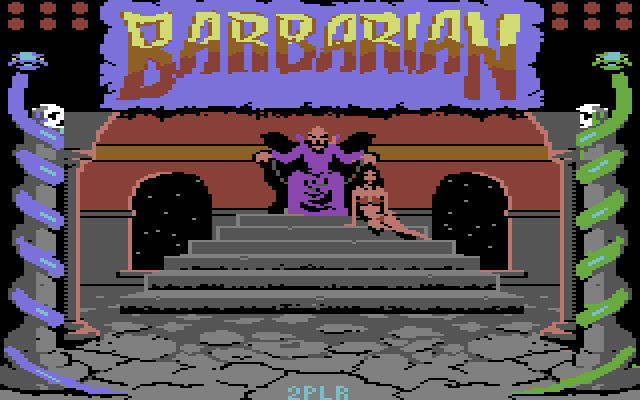
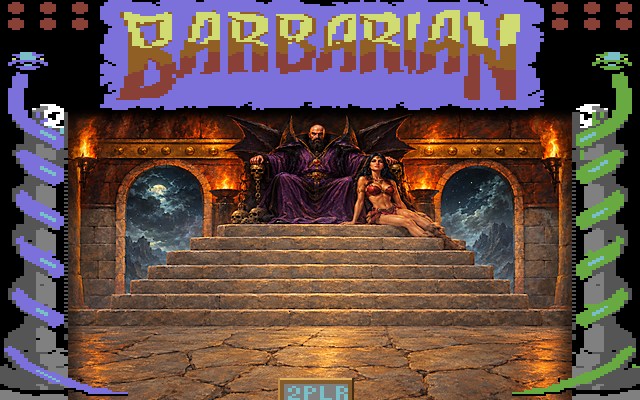
Add painted HD throne room artwork
Generate the throne room and matching background from a fantasy painting while preserving the original HUD, pillars, snakes, and player label. Document how to regenerate both assets.

diff --git a/tools/draw_throne.py b/tools/draw_throne.py
@@ -1,0 +1,117 @@
+"""Builds the throne room artwork at 2x in true colour: assets/HD/stage/throne.png and
+assets/HD/stage/throneBackground.png.
+
+The room is a heroic-fantasy oil painting (tools/throne_painting.jpg: made with an image model from a layout
+reference of the room, in the manner of 1970s sword-and-sorcery cover art). This script maps it onto the game
+grid: the stairs end where the floor starts (game y 163), the shadows behind the fighters are lifted so the dark
+sprites stay readable, and a bronze plate holds the "1PLR" / "2PLR" label. Kept from the C64 picture: the logo
+and HUD area, the two pillars with their snakes (shared by all stages) and the snake tails in the bottom corners.
+
+throneBackground.png is the strip of the picture that the game draws again on every frame (game pixels
+32,96 to 288,176), so it is cut from the new picture. Run from the repository root:
+python tools/draw_throne.py   (needs Pillow and NumPy; the output is deterministic)
+"""
+from pathlib import Path
+
+import numpy as np
+from PIL import Image, ImageFilter
+
+ROOT = Path(__file__).resolve().parent.parent
+SOURCE = ROOT / 'assets/C64/stage/throne.png'
+PAINTING = ROOT / 'tools/throne_painting.jpg'
+PICTURE = ROOT / 'assets/HD/stage/throne.png'
+BACKGROUND = ROOT / 'assets/HD/stage/throneBackground.png'
+
+S = 2                 # pixels per game pixel
+W, H = 320 * S, 200 * S
+
+# The part of the picture that is painted (game pixels); everything else is the C64 picture.
+ROOM = (34, 55, 286, 200)
+ROOM_W, ROOM_H = (ROOM[2] - ROOM[0]) * S, (ROOM[3] - ROOM[1]) * S
+
+STAIRS_BASE = 806     # row of the painting where the stairs end and the floor starts
+FLOOR_START = 163     # game y where the floor starts in the game
+
+
+def smoothstep(x):
+    x = np.clip(x, 0, 1)
+    return x * x * (3 - 2 * x)
+
+
+def paint_room():
+    """The painting at the size of the room, the floor and the stairs placed where the game expects them."""
+    painting = Image.open(PAINTING).convert('RGB')
+    width, height = painting.size
+    floor_row = (FLOOR_START - ROOM[1]) * S
+    stairs = painting.resize((ROOM_W, floor_row), Image.LANCZOS, box=(0, 0, width, STAIRS_BASE))
+    floor = painting.resize((ROOM_W, ROOM_H - floor_row), Image.LANCZOS, box=(0, STAIRS_BASE, width, height))
+    room = Image.new('RGB', (ROOM_W, ROOM_H))
+    room.paste(stairs, (0, 0))
+    room.paste(floor, (0, floor_row))
+    room = room.filter(ImageFilter.UnsharpMask(radius=1.2, percent=70, threshold=2))
+    px = np.asarray(room, np.float32) / 255
+
+    # the throne stays dramatic; behind the fighters the shadows are lifted (gamma < 1)
+    rows = np.arange(ROOM_H, dtype=np.float32)
+    gamma = 1 - 0.40 * smoothstep((rows - 70) / 50) + 0.16 * smoothstep((rows - floor_row) / 18)
+    px = px ** gamma[:, None, None]
+
+    # a shadow under the logo, and a soft edge towards the pillars
+    ceiling = 1 - smoothstep(rows / 14)
+    px *= (1 - 0.92 * ceiling)[:, None, None]
+    cols = np.arange(ROOM_W, dtype=np.float32)
+    edge = np.minimum(cols, ROOM_W - 1 - cols)
+    px *= (0.55 + 0.45 * smoothstep(edge / 18))[None, :, None]
+    return px * 255
+
+
+def nameplate(out):
+    """A bronze plate under the label (an opaque 32x8 picture drawn at 142,192) and the label itself."""
+    x0, y0, x1, y1 = 139 * S, 189 * S, 177 * S, H
+    plate = np.zeros((y1 - y0, x1 - x0, 3), np.float32)
+    plate[:] = (132, 92, 44)
+    plate[:S] = (226, 176, 98)
+    plate[:, :S] = (190, 140, 70)
+    plate[:, -S:] = (64, 42, 18)
+    out[y0:y1, x0:x1] = plate
+
+
+def snake_tails(out, original):
+    """The tails of the pillar snakes curl into the floor in the corners: the C64 pixels, kept."""
+    index = np.asarray(Image.open(SOURCE))
+    core = (index == 14) | (index == 5)
+    window = np.zeros_like(core)
+    window[183:, ROOM[0]:80] = True
+    window[183:, 252:ROOM[2]] = True
+    core &= window
+    grown = core.copy()
+    for dy in (-1, 0, 1):
+        for dx in (-1, 0, 1):
+            grown |= np.roll(np.roll(core, dy, 0), dx, 1)
+    keep = grown & np.isin(index, (0, 3, 14, 5)) & window
+    mask = np.kron(keep, np.ones((S, S), bool))
+    out[mask] = original[mask]
+
+
+def compose():
+    original = np.asarray(Image.open(SOURCE).convert('RGB').resize((W, H), Image.NEAREST), np.float32)
+    out = original.copy()
+    x0, y0, x1, y1 = (v * S for v in ROOM)
+    out[y0:y1, x0:x1] = paint_room()
+    nameplate(out)
+    snake_tails(out, original)
+    # the "2PLR" label is part of the C64 picture: the game draws "1PLR" / "DEMO" over it
+    label = (142 * S, 192 * S, 174 * S, 200 * S)
+    out[label[1]:label[3], label[0]:label[2]] = original[label[1]:label[3], label[0]:label[2]]
+    return np.clip(np.rint(out), 0, 255).astype(np.uint8)
+
+
+def main():
+    picture = compose()
+    Image.fromarray(picture).save(PICTURE, optimize=True)
+    # the strip the game draws on every frame: game pixels 32,96 to 288,176
+    Image.fromarray(picture[96 * S:176 * S, 32 * S:288 * S]).save(BACKGROUND, optimize=True)
+
+
+if __name__ == '__main__':
+    main()

diff --git a/README.md b/README.md
@@ -104,6 +104,13 @@ is behind each game pixel. [`assets/manifest.json`](assets/manifest.json) descri
   and the transparency are kept, and the script points the manifest at the new files. To draw better artwork, edit
   the files in `assets/HD/` (keep them paletted where the original is, and twice the size of the C64 original) and
   stop running the script, which overwrites them.
+* **Painted throne room** – `assets/HD/stage/throne.png` is true colour (not paletted): the room is a
+  heroic-fantasy oil painting (`tools/throne_painting.jpg`, made with an image model from a layout reference), mapped
+  onto the game grid by `python tools/draw_throne.py` (needs Pillow and NumPy). It keeps the C64 logo/HUD area, the
+  pillars with their snakes and the label slab (the game draws the opaque 32×8 `1PLR` / `DEMO` picture at 142,192;
+  here it sits on a bronze plate). `throneBackground.png` is a crop of it (game pixels 32,96 to 288,176, which the
+  game draws again on every frame), so always regenerate both together, and don't run `double_artwork.py`
+  afterwards: it would overwrite them with the pixel-doubled C64 picture.
 
 ## English naming
 
